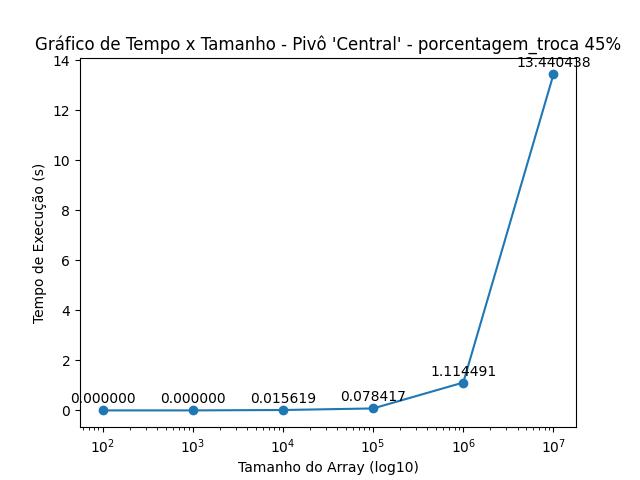
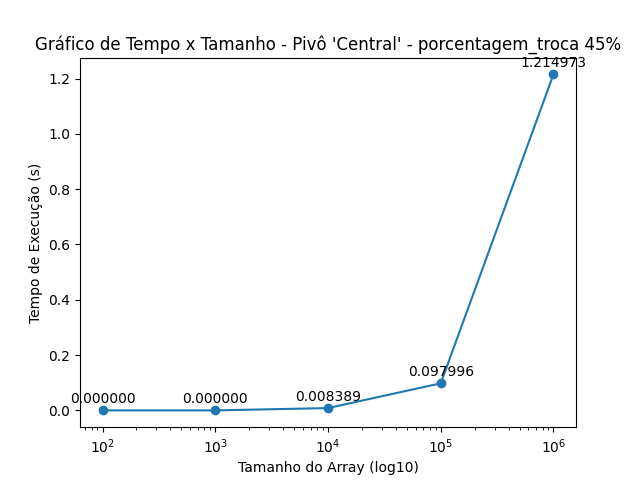
tudo ok, mas precisa otimizar medians_of_medians, e adicionar o acha_pivout na classe princiapal

diff --git a/QuickSort.py b/QuickSort.py
@@ -37,69 +37,87 @@ class QuickSort:
 
         # 5 – Pivô mediana
         elif metodo_pivo == 5:
-            # Calcula a mediana da lista usando a função seleciona_mediana
-            mediana_index = self.seleciona_mediana(A,
-                                                   inicio, (inicio + fim) // 2, fim)
+            return self.median_of_medians(A, (inicio + fim) // 2)
+            
 
-            # Retorna o índice da mediana como pivô
-            return A[mediana_index]
+        elif metodo_pivo == 6:
+            return A[self.metodo_acha_pivout(A, inicio, fim)]
 
     def partition(self, A, start, end, metodo_pivo):
         i = start-1  # left pointer
+        
         pivot = self.seleciona_pivo(A, start, end, metodo_pivo)
-        j = end+1  # right pointer
+        
+        j = end + 1  # right pointer
         while True:
             i += 1
             while (A[i] < pivot):
                 i += 1  # move left pointer to right
             j -= 1
+            
             while (A[j] > pivot):
                 j -= 1  # move right pointer to left
+                
             if i >= j:
                 return j  # stop, pivot moved to its correct position
+            
             A[i], A[j] = A[j], A[i]
 
     # Function to perform quicksort
-
     def quick_sort(self, A, start, end, metodo_pivo):
         if start < end:
             # p is pivot, it is now at its correct position
             p = self.partition(A, start, end, metodo_pivo)
             # sort elements to left and right of pivot separately
-            self.quick_sort(A, start, p, metodo_pivo)
-            self.quick_sort(A, p+1, end, metodo_pivo)
+            if(metodo_pivo == 6):
+                self.quick_sort(A, start, p-1, metodo_pivo)  # Corrigido
+                self.quick_sort(A, p+1, end, metodo_pivo)
+            else:
+                self.quick_sort(A, start, p, metodo_pivo)  # Corrigido
+                self.quick_sort(A, p+1, end, metodo_pivo)
 
     def calcula_media(self, a, b, c):
         return (a + b + c) // 3
 
-    def seleciona_mediana(self, A, inicio, meio, fim):
-        a = A[inicio]
-        b = A[meio]
-        c = A[fim]
-        mediana_indice = None  # índice da mediana
-
-        # A sequência de if...else a seguir verifica qual é a mediana
-        if a < b:
-            if b < c:
-                # a < b && b < c
-                mediana_indice = meio
+    def metodo_acha_pivout(self, A, inicio, fim):
+        esquerda = inicio
+        direita = fim
+        
+        pos = esquerda + 1
+        pto = -1
+        
+        while True:
+            
+            if pos > direita:
+                break
             else:
-                if a < c:
-                    # a < c && c <= b
-                    mediana_indice = fim
+                if A[pos] >= A[pos-1]:
+                    pos += 1
                 else:
-                    # c <= a && a < b
-                    mediana_indice = inicio
+                    pto = pos
+                    break
+        
+        return pto
+
+    def median_of_medians(self, A, i):
+
+        #divide A into sublists of len 5
+        sublists = [A[j:j+5] for j in range(0, len(A), 5)]
+        medians = [sorted(sublist)[len(sublist)//2] for sublist in sublists]
+        if len(medians) <= 5:
+            pivot = sorted(medians)[len(medians)//2]
         else:
-            if c < b:
-                # c < b && b <= a
-                mediana_indice = meio
-            else:
-                if c < a:
-                    # b <= c && c < a
-                    mediana_indice = fim
-                else:
-                    # b <= a && a <= c
-                    mediana_indice = inicio
+            #the pivot is the median of the medians
+            pivot = self.median_of_medians(medians, len(medians)//2)
 
-        return mediana_indice
+        #partitioning step
+        low = [j for j in A if j < pivot]
+        high = [j for j in A if j > pivot]
+
+        k = len(low)
+        if i < k:
+            return self.median_of_medians(low,i)
+        elif i > k:
+            return self.median_of_medians(high,i-k-1)
+        else: #pivot = k
+            return pivot

diff --git a/normal.py b/normal.py
@@ -1,0 +1,68 @@
+import random
+tamanho_array = int(1e2)
+lista_aleatoria = list(range(tamanho_array))
+antiga = lista_aleatoria.copy()
+
+def trocar_porcentagem(array, porcentagem):
+    if porcentagem < 0 or porcentagem > 100:
+        raise ValueError("A porcentagem deve estar entre 0 e 100.")
+
+    n = len(array)
+    num_trocas = int(n * porcentagem / 100)
+
+    for _ in range(num_trocas):
+        index_a, index_b = random.sample(range(n), 2)
+        array[index_a], array[index_b] = array[index_b], array[index_a]
+
+trocar_porcentagem(lista_aleatoria, 50)
+print(lista_aleatoria)
+
+def achaPivo(n1, n2, L):
+    esq = n1
+    dir = n2
+    pos = esq + 1
+    pto = 0
+    
+    while True:
+        if pos > dir:
+            break
+        else:
+            if L[pos] >= L[pos - 1]:
+                pos = pos + 1
+            else:
+                pto = pos
+                break
+    
+    # Retornar o ponto de inflexão encontrado
+    return pto
+
+def particao(L, n1, n2, pivo):
+    esq = n1
+    dir = n2
+    
+    while True:
+        while L[esq] < pivo:
+            esq = esq + 1
+        while L[dir] > pivo:
+            dir = dir - 1
+        
+        if esq > dir:  # Corrigido para esq > dir
+            return dir  # Retorna o novo valor de p após a partição
+
+        # Troca L[esq] e L[dir]
+        L[esq], L[dir] = L[dir], L[esq]
+
+def quick_sort(L, n1, n2):
+    esq = n1
+    dir = n2
+    
+    if n1 < n2:  # Adicionada a condição de parada
+        pivo = L[(n1 + n2) // 2]
+        p = particao(L, n1, n2, pivo)
+        
+        quick_sort(L, n1, p) 
+        quick_sort(L, p + 1, n2)
+
+
+quick_sort(lista_aleatoria, 0, len(lista_aleatoria) - 1)
+print(lista_aleatoria)

diff --git a/main.py b/main.py
@@ -47,10 +47,9 @@ def plotar_e_salvar_grafico(tempo, tamanho, titulo, nome_arquivo):
     plt.savefig(caminho_arquivo)
 
 
-tamanhos_array = [int(1e2), int(1e3), int(1e4), int(1e5), int(1e6), int(1e7)]
+tamanhos_array = [int(1e2), int(1e3), int(1e4), int(1e5), int(1e6), int(1e7), int(1e8), int(1e9)]
 porcentagens_troca = [5, 25, 45]
-metodos_pivo = [1, 2, 3, 4, 5]
-
+metodos_pivo = [1, 2, 3, 4, 6, 5]
 metodos_pivo_nome = ["Primeiro", "Central",
                      "Média", "Randômico", "Mediana", "Acha Pivo"]
 
@@ -70,19 +69,21 @@ if __name__ == "__main__":
 
                 # Embaralhando a lista aleatória
                 trocar_porcentagem(lista_aleatoria, porcentagem_troca)
-
+                
                 # Criando uma instância da classe QuickSort
                 quick_sort = QuickSort(lista_aleatoria.copy())
 
                 # Clonando a lista original para não modificar a original
                 lista_copia = lista_aleatoria.copy()
-
+                
                 # Ordenando a lista usando o método de escolha de pivô específico
                 quick_sort.ordenar(lista_copia, metodo_pivo)
-
+                
+                # Lista anterior
+                # print(lista_aleatoria)
                 # Exibindo o resultado
-                # print(
-                #     f"\nPivô {metodo_pivo}, tamanho_array {tamanho_array}, tempo {quick_sort.time}, {lista_copia}\n\n")
+                print(
+                       f"\nPivô '{metodos_pivo_nome[metodo_pivo-1]}', tamanho_array {tamanho_array}, tempo {quick_sort.time}\n\n")
 
                 tamanhos_na_iteracao.append(tamanho_array)
                 tempo_na_iteracao.append(quick_sort.time)

diff --git a/acha_pivout.py b/acha_pivout.py
@@ -1,0 +1,69 @@
+import random
+tamanho_array = int(1e6)
+lista_aleatoria = list(range(tamanho_array))
+antiga = lista_aleatoria.copy()
+
+def trocar_porcentagem(array, porcentagem):
+    if porcentagem < 0 or porcentagem > 100:
+        raise ValueError("A porcentagem deve estar entre 0 e 100.")
+
+    n = len(array)
+    num_trocas = int(n * porcentagem / 100)
+
+    for _ in range(num_trocas):
+        index_a, index_b = random.sample(range(n), 2)
+        array[index_a], array[index_b] = array[index_b], array[index_a]
+
+trocar_porcentagem(lista_aleatoria, 50)
+print(lista_aleatoria)
+
+def achaPivo(n1, n2, L):
+    esq = n1
+    dir = n2
+    pos = esq + 1
+    pto = 0
+    
+    while True:
+        if pos > dir:
+            break
+        else:
+            if L[pos] >= L[pos - 1]:
+                pos = pos + 1
+            else:
+                pto = pos
+                break
+    
+    # Retornar o ponto de inflexão encontrado
+    return pto
+
+def particao(L, n1, n2, pivo, p):
+    esq = n1
+    dir = n2
+    
+    while True:
+        while L[esq] < pivo:
+            esq = esq + 1
+        while L[dir] > pivo:
+            dir = dir - 1
+        
+        if esq >= dir:
+            return dir  # Retorna o novo valor de p após a partição
+
+        # Troca L[esq] e L[dir]
+        L[esq], L[dir] = L[dir], L[esq]
+
+
+def quick_sort(L, n1, n2):
+    esq = n1
+    dir = n2
+    
+    pto = achaPivo(n1, n2, L)
+    
+    if pto != 0:
+        p = particao(L, n1, n2, L[pto], pto)
+        quick_sort(L, esq, p) 
+        quick_sort(L, p + 1, dir)
+
+
+quick_sort(lista_aleatoria, 0, len(lista_aleatoria) - 1)
+print(lista_aleatoria)
